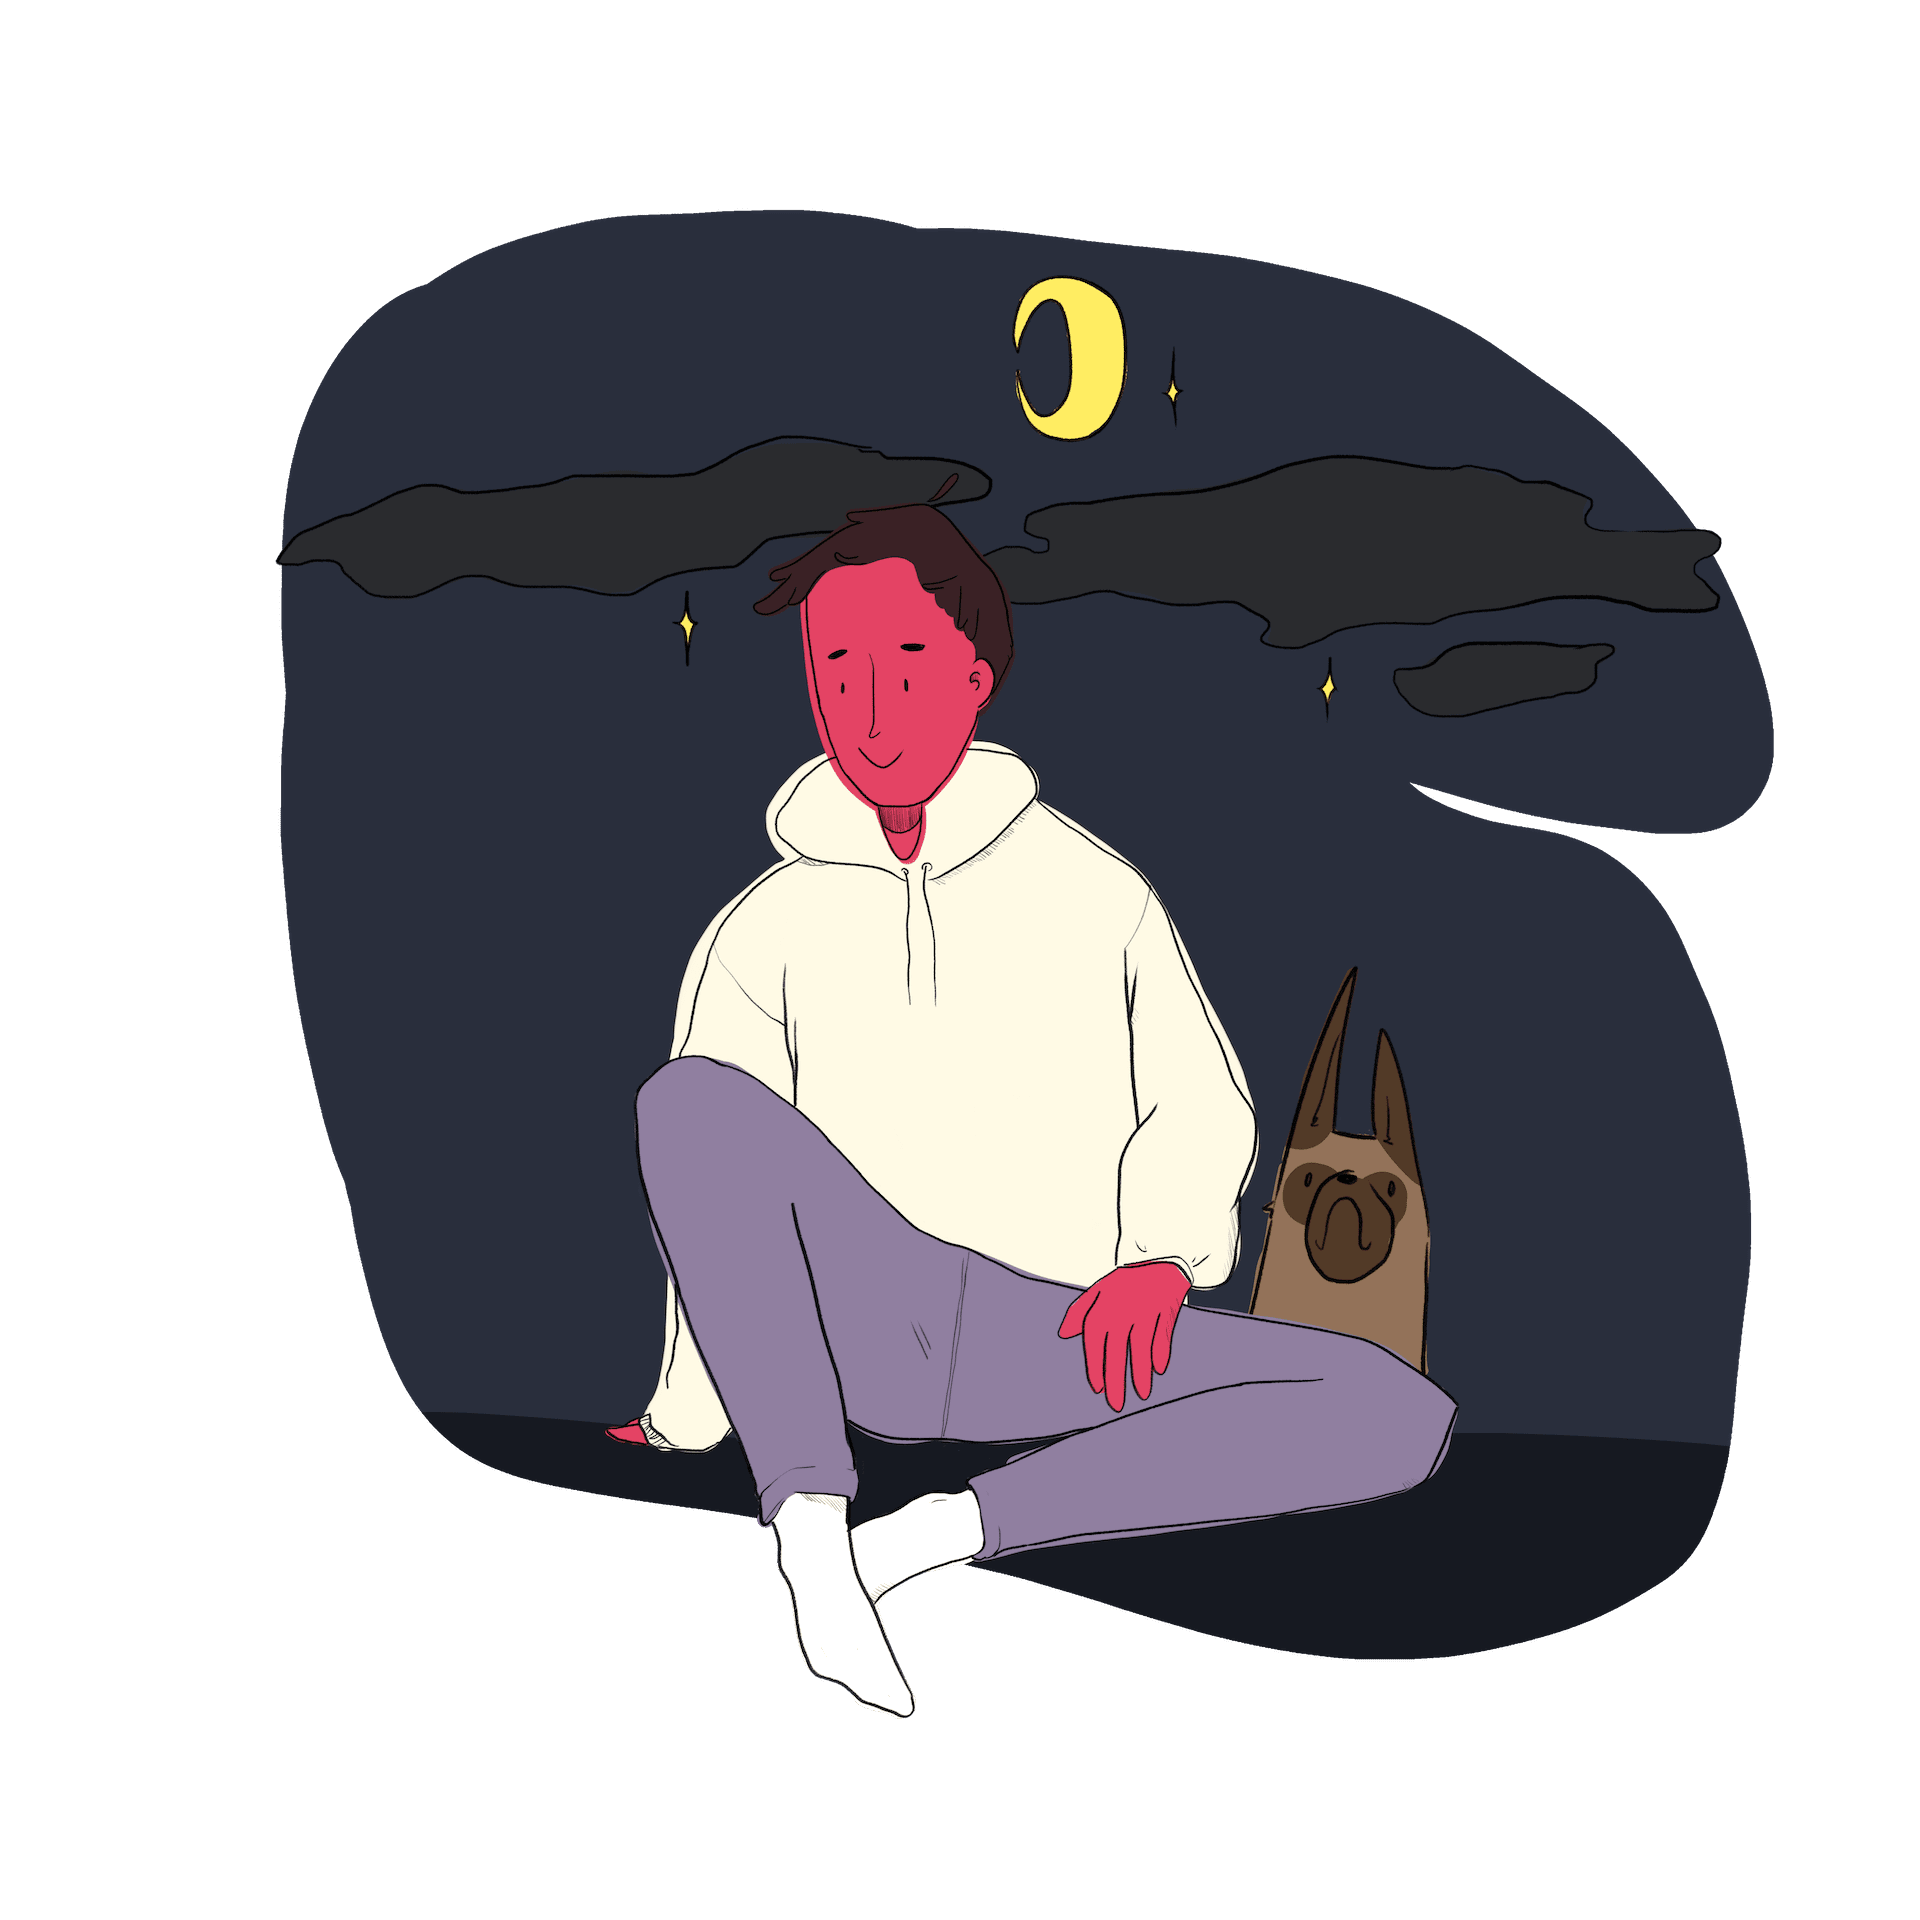
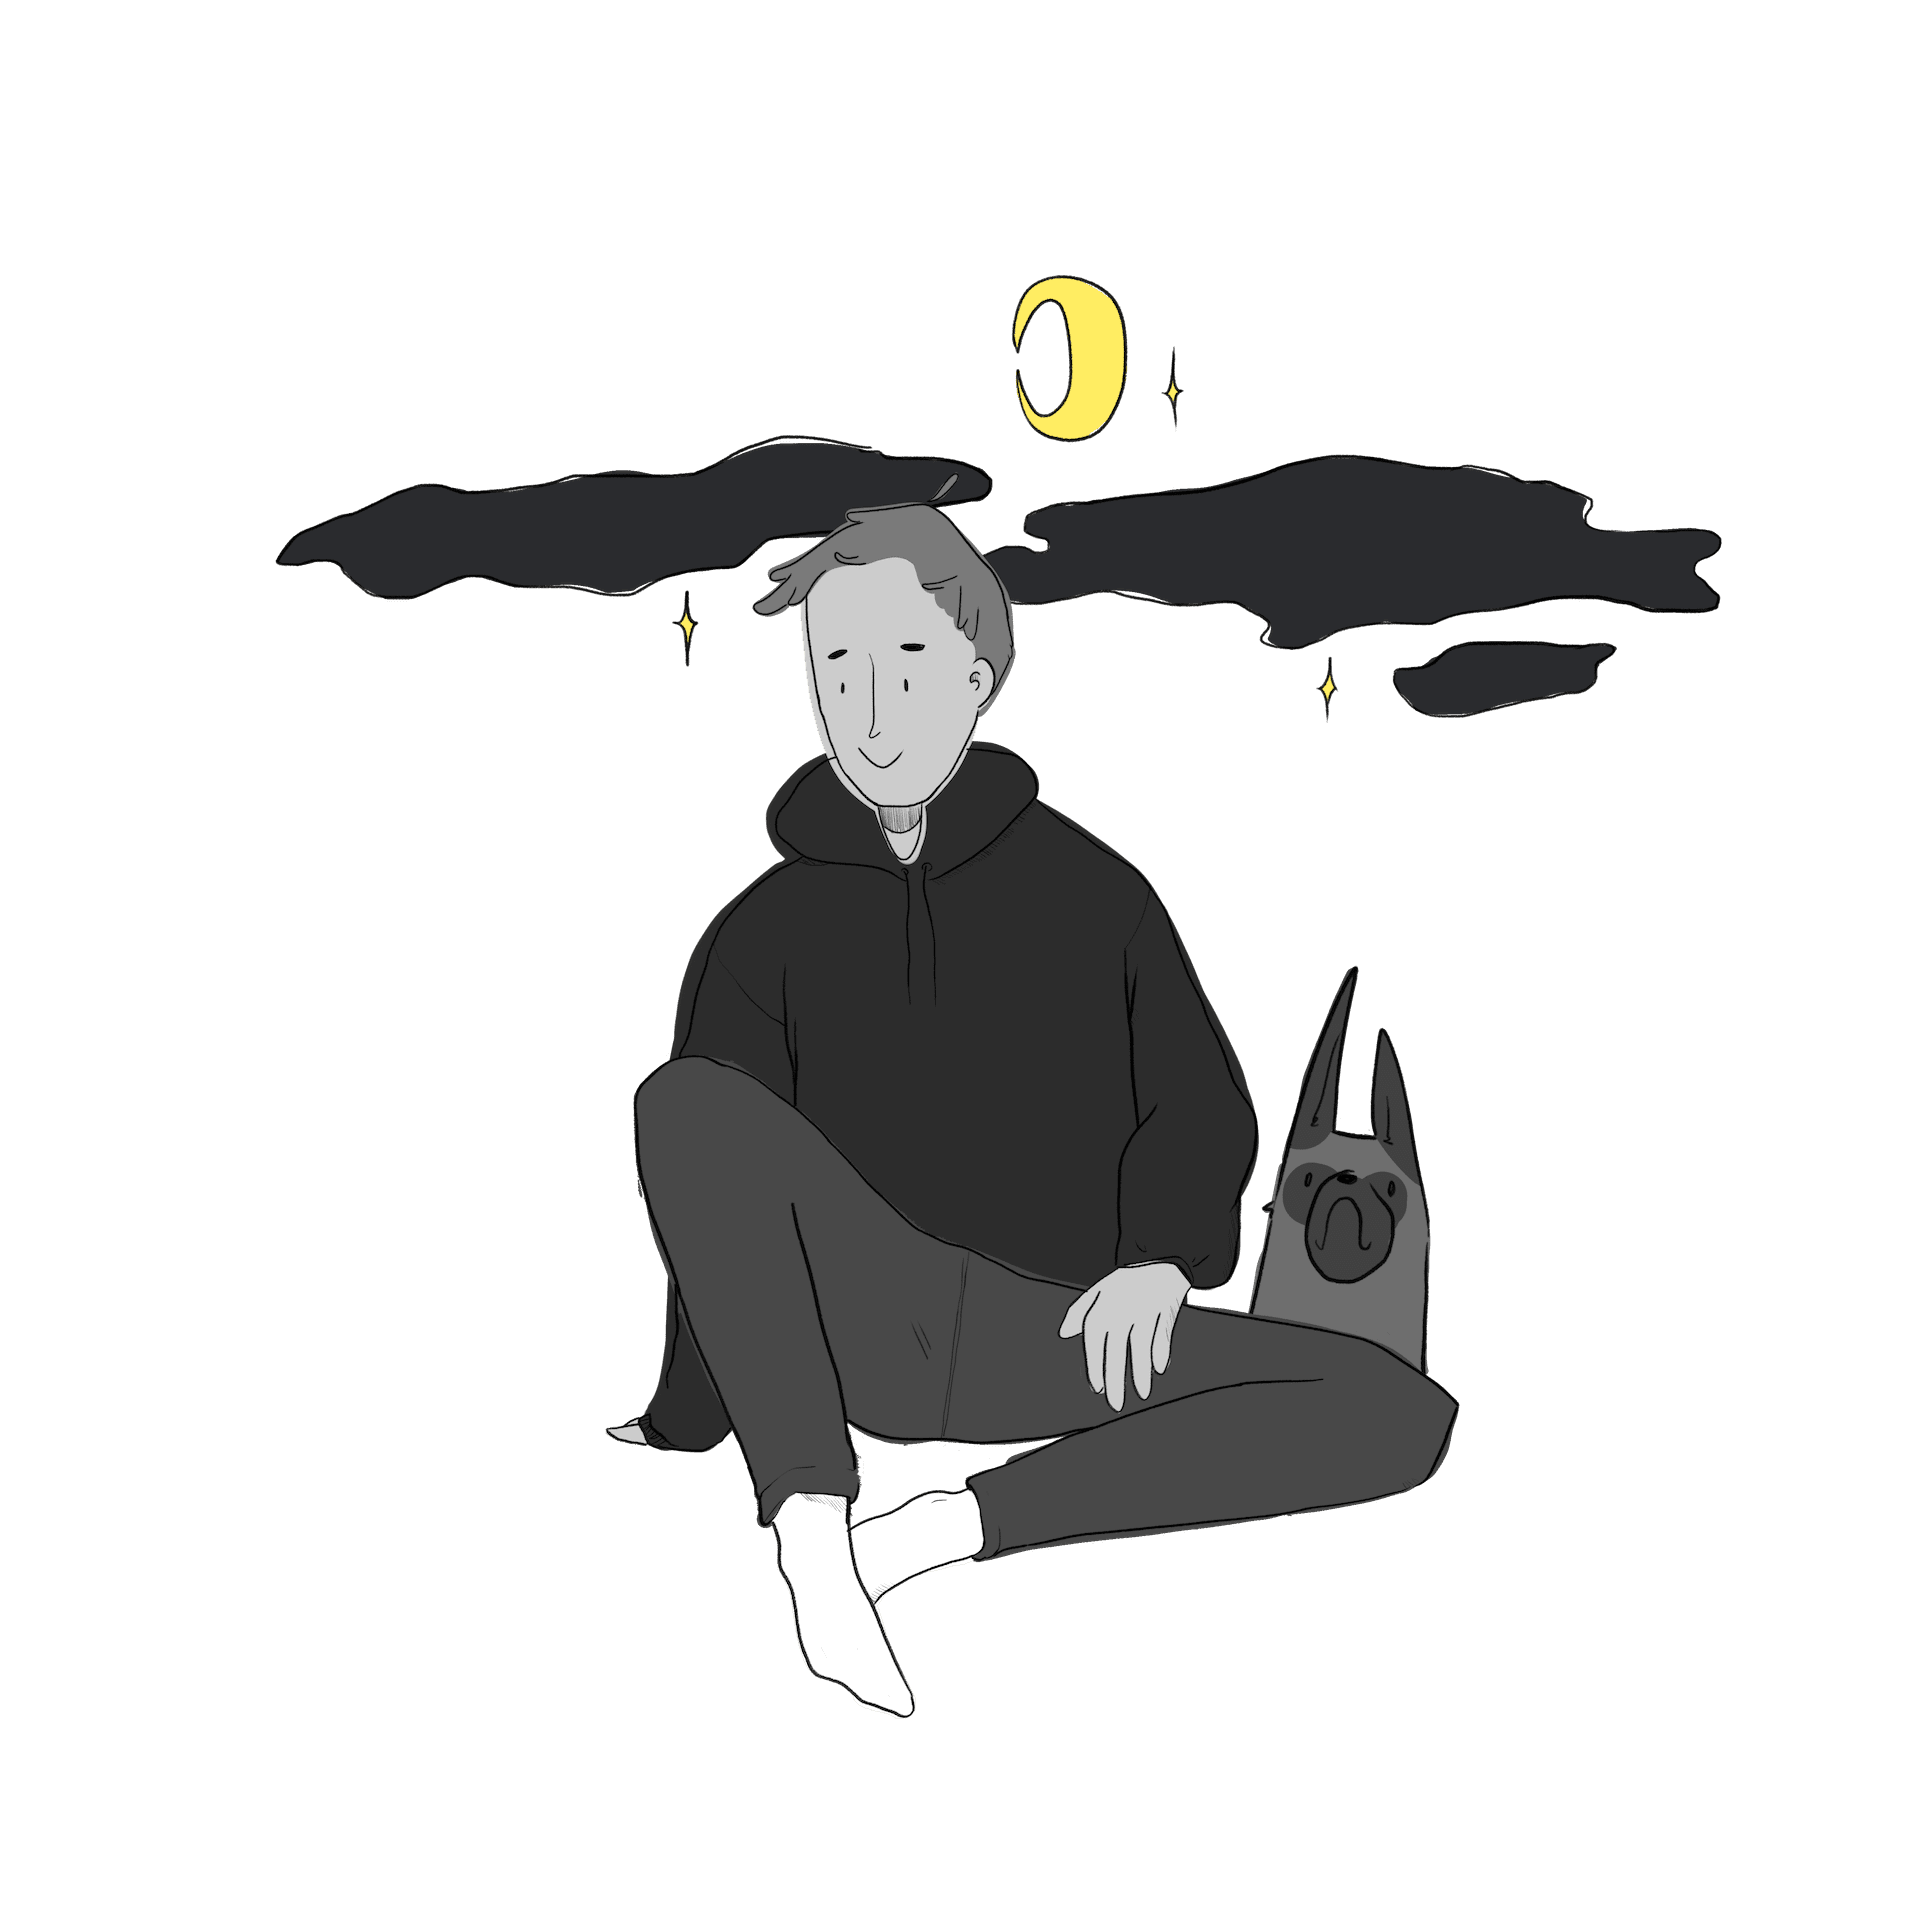
redesign

diff --git a/src/components/Nav.svelte b/src/components/Nav.svelte
@@ -5,21 +5,21 @@
 </script>
 
 <style lang='sass'>
-	img
-		border-radius: 50%
-
 	nav
-		border-bottom: 1px solid rgba(var(--text-base), 0.1)
-
-	.navbar-item
+		padding: 1rem 0rem
+	a
+		display: inline-flex
 		color: rgba(var(--text-base), 0.8) !important
 		background: var(--background) !important
 		--a: 0.0
+		border-radius: 0.5em
+		margin: 1rem
+		padding: 0.5rem 1rem
+		background: rgba(var(--text-base), 0.03) !important
+		::after
 		&:hover
 			--a: 0.3
 			color: var(--c) !important
-		@media (max-width: 400px)
-			padding: 0.5rem !important
 
 	.selected
 		--a: 0.2
@@ -27,59 +27,30 @@
 		position: relative
 		background: none
 		border: none
+	.label
+		color: currentColor
+	
+	@media screen and (max-width: 600px)
+		.label
+			display: none
+
 </style>
-	<!-- 	@media (max-width: 600px)
-			&::before
-				content: ""
-				width: 100%
-				height: 3px
-				background: var(--c) !important
-				opacity: var(--a) !important
-				position: absolute
-				left: 0
-				bottom: 0
-				border-radius: 0.3em
- --><!-- 		@media (max-width: 600px)
-			&::before
-				content: ""
-				width: 100%
-				height: 3px
-				background: currentColor !important
-				opacity: var(--a) !important
-				position: absolute
-				left: 0
-				bottom: 0 -->
 
-			<!-- .navbar-item
-				span.home Available for work -->
 <template lang='pug'>
-
-
-nav.is-fixed-top.navbar(role="navigation" aria-label="main navigation")
-	.container.has-text-weight-bold
-		.navbar-brand
-			a.navbar-item(href="mailto:hello@mathiassen.dev" aria-label="Contact me")
-				span.icon: i.fas.fa-envelope
-				span Get in touch
-			.navbar-burger.burger(on:click='{toggleBurger}' class:is-active='{burger}' role="button" aria-label="menu" aria-expanded="{burger}" data-target="navbarBasicExample")
-				span(aria-hidden="true")
-				span(aria-hidden="true")
-				span(aria-hidden="true")
-
-		.navbar-menu.has-text-weight-bold(class:is-active='{burger}')
-			.navbar-end.has-text-centered
-				a.navbar-item.home(on:click='{toggleBurger}' class:selected="{segment === undefined}" href=".")
-					span.icon: i.fas.fa-home
-					span Home
-				a.navbar-item.gallery(on:click='{toggleBurger}' class:selected="{segment === 'gallery'}" href="gallery")
-					span.icon: i.fas.fa-images
-					span Gallery
-				a.navbar-item.blog(on:click='{toggleBurger}' class:selected="{segment === 'blog'}" href="blog")
-					span.icon: i.fas.fa-pen
-					span Blog
-				a.navbar-item.about(on:click='{toggleBurger}' class:selected="{segment === 'about'}" href="about")
-					span.icon: i.fas.fa-portrait
-					span About
+nav
+	.container.has-text-weight-bold.has-text-centered
+		a.group.home(class:selected="{segment === undefined}" href=".")
+			span.icon: i.fas.fa-home
+			span.label Home
+		a.group.gallery(class:selected="{segment === 'gallery'}" href="gallery")
+			span.icon: i.fas.fa-images
+			span.label Gallery
+		a.group.blog(class:selected="{segment === 'blog'}" href="blog")
+			span.icon: i.fas.fa-pen
+			span.label Blog
+		a.group.about(class:selected="{segment === 'about'}" href="about")
+			span.icon: i.fas.fa-portrait
+			span.label About
 </template>
 				<!-- a.navbar-item(on:click='{toggleBurger}' class:selected="{segment === 'projects'}" href="projects")
 					span.icon: i.fas.fa-layer-group

diff --git a/src/global.sass b/src/global.sass
@@ -29,11 +29,12 @@ $purple:    hsl(271, 100%, 71%)
 $red:       hsl(348, 86%, 61%)
 
 html
+	overflow-x: hidden
 	--text--color-base--light:            93,23,23
 	--background--color-base--light:      236,236,236
 
-	--text--color-base--dark:             236,236,236
-	--background--color-base--dark:       0,0,0
+	--text--color-base--dark:             200,200,200
+	--background--color-base--dark:       18,18,18
 
 	--background-color--selection--light: yellow
 	--background-color--selection--dark: red
@@ -80,11 +81,11 @@ html
 	--link-color--dark: #{$blue}
 
 	--avatar-standing--light: url('standing_light.png')
-	--avatar-standing--dark: url('standing_dark_bw.png')
+	--avatar-standing--dark: url('standing_dark.png')
 	--avatar-standing: var(--avatar-standing--light)
 
 	--avatar-sitting--light: url('sitting_light.png')
-	--avatar-sitting--dark: url('sitting_dark_bw.png')
+	--avatar-sitting--dark: url('sitting_dark.png')
 	--avatar-sitting: var(--avatar-sitting--light)
 
 	--text-base: 0,0,0
@@ -257,6 +258,10 @@ input
 		background: currentColor
 		opacity: 0.1
 
+.grayy
+	color: rgba(var(--text-base),0.3) !important
+	--c: rgba(var(--text-base),0.3)
+
 .home
 	color: var(--green) !important
 	--c: var(--green)
@@ -279,21 +284,28 @@ input
 .columns
 	margin-bottom: 0rem !important
 
+.group
+	border-radius: 0.3em
+	padding: 0.25em 0.5em
+	background: rgba(var(--text-base), 0.03) !important
+
 .avatar
+	-webkit-backface-visibility:	hidden
+	-moz-backface-visibility:	hidden
+	-ms-backface-visibility:	hidden
+	-webkit-transform: translate3d(0, 0, 0)
+	-moz-transform: translate3d(0, 0, 0)
+	-ms-transform: translate3d(0, 0, 0)
+	-o-transform: translate3d(0, 0, 0)
+	transform: translate3d(0, 0, 0)
 	margin: auto
-	height: 360px
-	width: 360px
 	background-size: cover
 	&.standing
-		-webkit-backface-visibility: hidden
-		-moz-backface-visibility:    hidden
-		-ms-backface-visibility:     hidden
-		-webkit-transform: translate3d(0,0,0)
+		height: 330px
+		width: 330px
 		background-image: var(--avatar-standing)
 	&.sitting
-		-webkit-backface-visibility: hidden
-		-moz-backface-visibility:    hidden
-		-ms-backface-visibility:     hidden
-		-webkit-transform: translate3d(0,0,0)
+		height: 330px
+		width: 330px
 		background-image: var(--avatar-sitting)
 

diff --git a/src/components/Hello.svelte b/src/components/Hello.svelte
@@ -1,0 +1,49 @@
+
+<script>
+
+    import FancyText from './FancyText.svelte'
+    import TopDropTexts from './TopDropTexts.svelte'
+
+</script>
+
+<style lang="sass">
+.hero-body
+    padding-top: 1rem
+.subtitle
+    opacity: 0.8
+    line-height: 2
+.currently-interested-in
+    font-size: 1rem
+</style>
+
+
+<template lang="pug">
+.columns.is-centered.is-vcentered.has-text-centered
+    .column.is-narrow
+        .has-text-centered
+            .avatar.standing
+        h1.title.is-2.is-size-3-mobile.has-text-weight-bold
+            span Marcus Mathiassen
+        h2.subtitle.is-size-8-mobile.
+            #[strong Software Developer] from Northern Norway.
+            #[br]
+            #[.currently-interested-in Currently interested in #[TopDropTexts(texts="{['SDFs', 'voxels', 'compilers','pathtracing']}")]]
+
+        .columns.is-3.is-centered
+            .column.is-narrow(style='display: inline-flex')
+                a.button.is-size-4.gallery.underline.has-text-weight-bold(href="gallery")
+                    span.icon: i.fas.fa-images
+                    span Gallery
+            .column.is-narrow(style='display: inline-flex')
+                a.button.is-size-4.blog.underline.has-text-weight-bold(href="blog")
+                    span.icon: i.fas.fa-pen
+                    span Blog
+            .column.is-narrow(style='display: inline-flex')
+                a.button.is-size-4.github.underline.has-text-weight-bold(href="https://github.com/MarcusMathiassen" target="_blank" rel="noopener" aria-label="Checkout my Github")
+                    span.icon: i.fab.fa-github
+                    span Github
+            .column.is-narrow(style='display: inline-flex')
+                a.button.is-size-4.youtube.underline(href="https://www.youtube.com/user/MathiassenMarcus/videos" target="_blank" rel="noopener" aria-label="Checkout my Youtube")
+                    span.icon: i.fab.fa-youtube
+                    span Youtube
+</template>

diff --git a/src/components/hero.svelte b/src/components/hero.svelte
@@ -12,7 +12,10 @@
     padding-top: 1rem
 .subtitle
     line-height: 2
-
+.title
+    color: rgb(253,236,121) !important	
+.currently-interested-in
+    font-size: 1rem
 </style>
 
 
@@ -24,11 +27,11 @@ section.hero
                 .column.is-narrow
                     .has-text-centered
                         .avatar.standing
-                    h1.title.is-2 Marcus Mathiassen
-                    h2.subtitle.
+                    h1.title.is-2.is-size-3-mobile Marcus Mathiassen
+                    h2.subtitle.is-size-8-mobile.
                         #[strong Software Developer] from Northern Norway.
                         #[br]
-                        Currently interested in #[TopDropTexts(texts="{['SDFs', 'voxels', 'compilers','pathtracing']}")]
+                        #[.currently-interested-in Currently interested in #[TopDropTexts(texts="{['SDFs', 'voxels', 'compilers','pathtracing']}")]]
 
                     .columns.is-3.is-centered
                         .column.is-narrow(style='display: inline-flex')

diff --git a/src/routes/index.svelte b/src/routes/index.svelte
@@ -1,6 +1,7 @@
 <script>
 
-    import Hero from '../components/hero.svelte'
+    import Hello from '../components/Hello.svelte'
+    import Goodbye from '../components/Goodbye.svelte'
     import Blog from '../components/blog.svelte'
     import Repos from '../components/repos.svelte'
     import Videos from '../components/youtube-videos.svelte'
@@ -17,14 +18,17 @@
 </style>
 
 <template lang="pug">
-
     title Marcus Mathiassen
-    Hero
+    .section(style='padding: 1rem 1.5rem')
+        .container
+            Hello
     .section
         .container
             .columns.is-centered.is-multiline(style='justify-content: center')
                 .column.is-narrow: Repos
                 .column.is-narrow: Videos
                 .column.is-narrow: Blog
-    .avatar.sitting
+    .section
+        .container
+            Goodbye
 </template>

diff --git a/src/components/FancyText.svelte b/src/components/FancyText.svelte
@@ -2,7 +2,6 @@
 <script>
 	export let text
 
-	let cIndex = 0
 	const colors = [
 		'hsl(14,  100%, 53%)',
 		'hsl(48,  100%, 47%)',
@@ -13,8 +12,6 @@
 		'hsl(271, 100%, 71%)',
 		'hsl(348, 86%, 61%)',
 	]
-
-	console.log(cIndex)
 
 </script>
 
@@ -32,8 +29,6 @@ span
 	font-weight: 700
 	animation: 1s fadeIn infinite
 	--a: 0.3
-	&:hover
-		--a: 1.0
 	&::before
 		content: ""
 		width: 100%
@@ -51,8 +46,6 @@ span
 
 
 <template lang="pug">
-
-	+each("text.split('') as c, i")
-		span(style='animation-delay: {100*i}ms; color: {colors[cIndex++ % colors.length-1]}') {c}
-
++each("text as c, i")
+	span(style=`animation-delay: {100*i}ms; color: {colors[i % colors.length]}`) {c}
 </template>

diff --git a/src/components/Goodbye.svelte b/src/components/Goodbye.svelte
@@ -1,0 +1,20 @@
+<script>
+	import FancyText from './FancyText.svelte'
+</script>
+
+<style lang="sass">
+a
+	border-radius: 0.3em
+	padding: 0.3em 0.5em
+	background: rgba(var(--text-base), 0.03) !important
+	&:hover
+		background: rgba(var(--text-base), 0.04) !important
+</style>
+
+<template lang="pug">
+.avatar.sitting
+.has-text-centered
+	a.is-size-2.has-text-weight-bold(href="mailto:hello@mathiassen.dev" aria-label="Contact me")
+		FancyText(text='say hello')
+</template>
+

diff --git a/src/components/TopDropTexts.svelte b/src/components/TopDropTexts.svelte
@@ -39,21 +39,10 @@ span
 	font-weight: 700
     animation: 1s fadeOut infinite
 	--a: 0.3
-	&::before
-		content: ""
-		width: 100%
-		height: 3px
-		background: currentColor !important
-		opacity: var(--a) !important
-		position: absolute
-		left: 0
-		bottom: 0
 	color: currentColor
 	position: relative
 	background: none
 	border: none
-	&:hover
-		--a: 0.8
 </style>
 
 

diff --git a/src/template.html b/src/template.html
@@ -1,5 +1,5 @@
 <!doctype html>
-<html lang='en' class='has-navbar-fixed-top'>
+<html lang='en'>
 
 <head>
      <meta charset='utf-8'>
